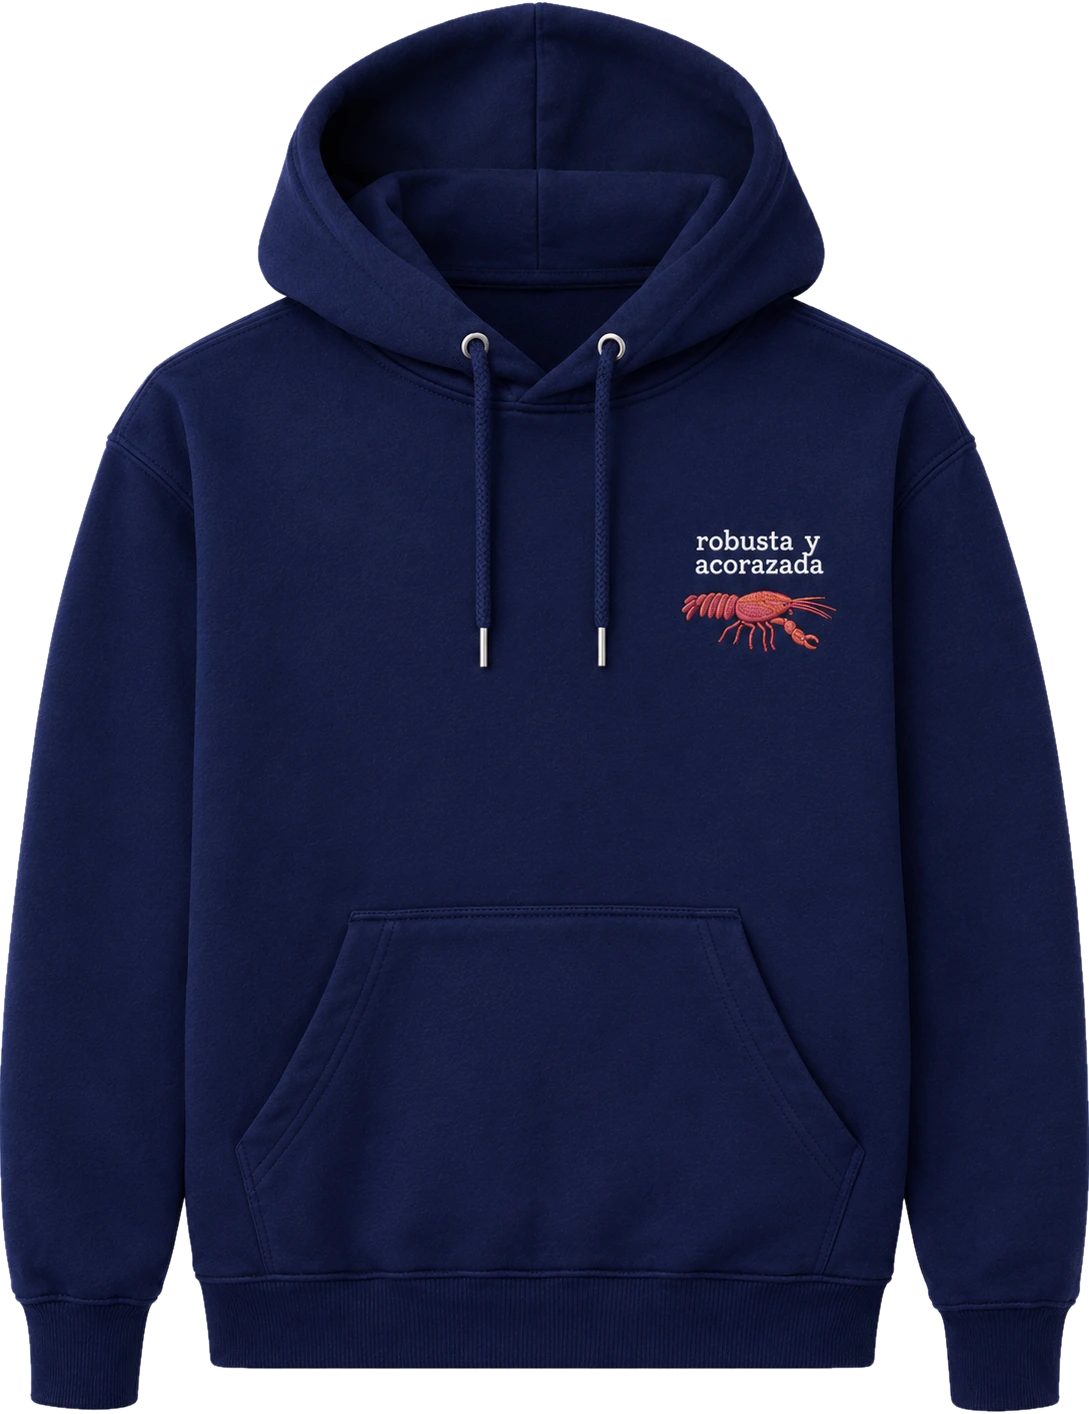
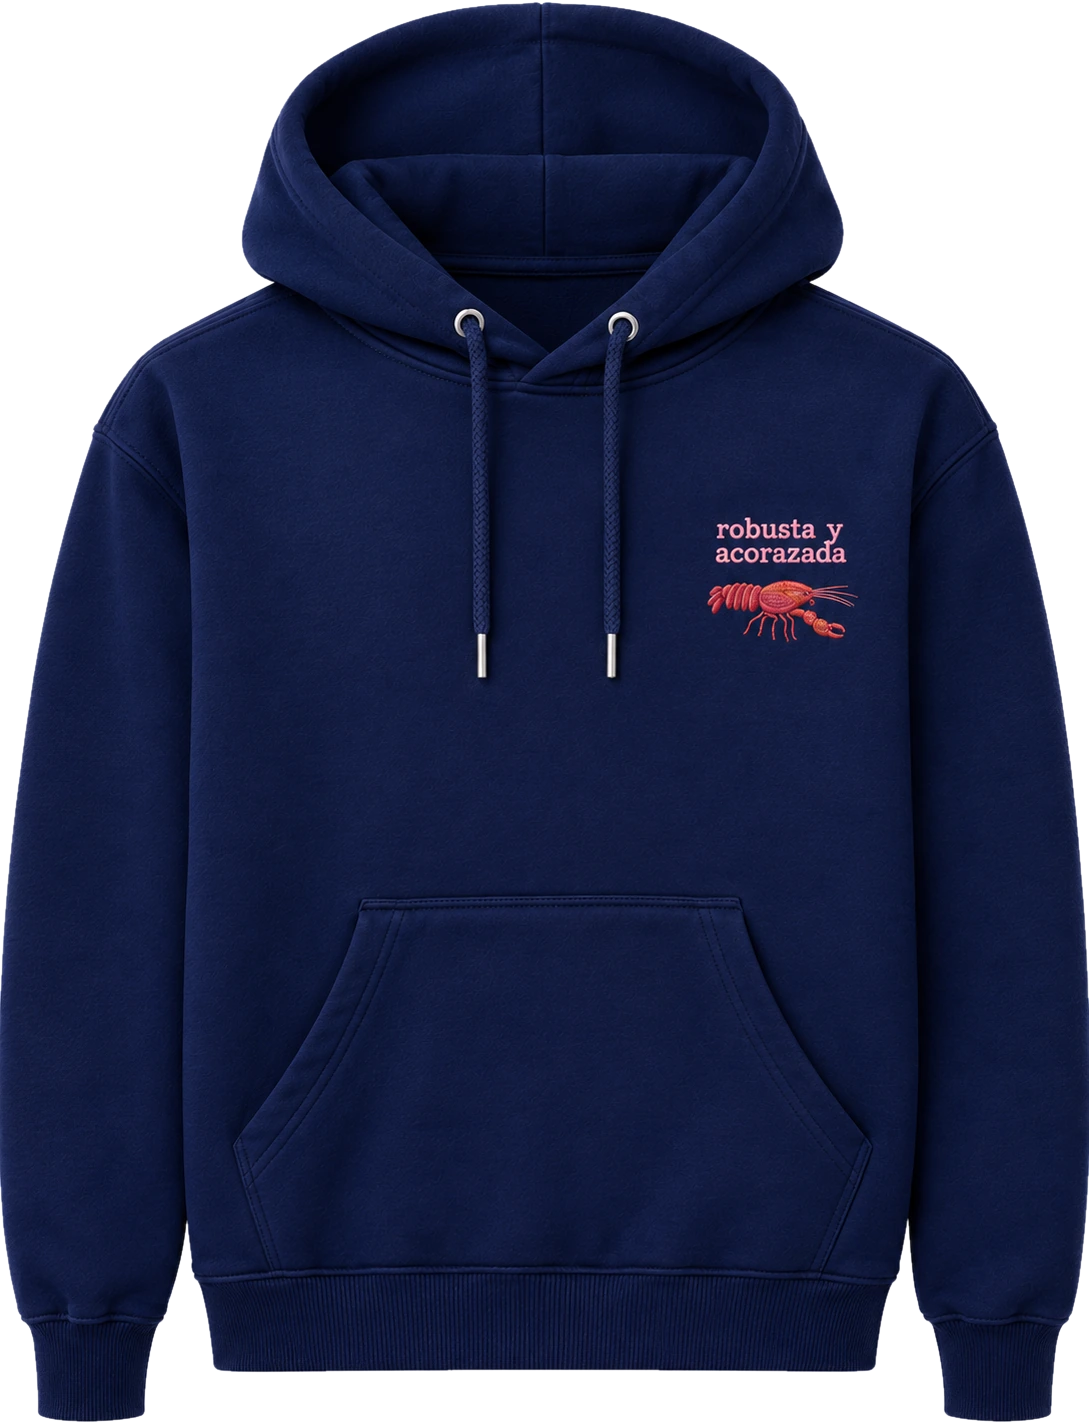
Fondo: nueva versión del buzo de Mamá tenazas
Claude-Session: https://claude.ai/code/session_01Qm5YFXMrmpHggq2K32ktW1

diff --git a/fondo.js b/fondo.js
@@ -80,7 +80,7 @@
           remera: "Remera negra con el pulpo Dumbo en rosa y amarillo. Arriba a la izquierda dice cuerpo encima y abajo a la derecha, devora. Usá los botones o el pellizco para acercarte.",
           taza: "Taza blanca con el interior y el asa rosas. Dice Madre solo una, y abajo está Mamá tenazas, una langosta en rosa y naranja. Usá los botones o el pellizco para acercarte.",
           toallon: "Toallón playero azul con el pulpo Dumbo en rosa y amarillo. Abajo dice cirros que captan. Usá los botones o el pellizco para acercarte.",
-          buzo: "Buzo azul marino con capucha. En el pecho tiene bordada a Mamá tenazas, una langosta roja, y arriba dice robusta y acorazada. Usá los botones o el pellizco para acercarte.",
+          buzo: "Buzo azul marino con capucha. En el pecho tiene bordada a Mamá tenazas, una langosta roja, y arriba, en rosa, dice robusta y acorazada. Usá los botones o el pellizco para acercarte.",
           gorra: "Gorra negra de gabardina lavada con Batatita bordada en violeta. Debajo, también bordado en violeta, dice sobre barro y arena. Usá los botones o el pellizco para acercarte."
         }
       },
@@ -138,7 +138,7 @@
           remera: "Black T-shirt with the dumbo octopus in pink and yellow. Top left it reads cuerpo encima (body on top) and bottom right, devora (devours). Use the buttons or pinch to zoom in.",
           taza: "White mug with a pink inside and handle. It reads Madre solo una (only one mother), and below is Mamá tenazas, a lobster in pink and orange. Use the buttons or pinch to zoom in.",
           toallon: "Blue beach towel with the dumbo octopus in pink and yellow. Below it reads cirros que captan (cirri that capture). Use the buttons or pinch to zoom in.",
-          buzo: "Navy blue hoodie. On the chest it has Mamá tenazas, a red lobster, embroidered, and above it reads robusta y acorazada (sturdy and armoured). Use the buttons or pinch to zoom in.",
+          buzo: "Navy blue hoodie. On the chest it has Mamá tenazas, a red lobster, embroidered, and above it, in pink, reads robusta y acorazada (sturdy and armoured). Use the buttons or pinch to zoom in.",
           gorra: "Washed black cap with Batatita embroidered in purple. Below it, also embroidered in purple, it reads sobre barro y arena (on mud and sand). Use the buttons or pinch to zoom in."
         }
       },
@@ -235,7 +235,7 @@
         {
           id: "buzo", es: "Buzo con capucha", en: "Hoodie",
           kind: "zoom", thumb: "fondo/assets/thumbs/buzo.webp",
-          svg: "fondo/assets/buzo-svg.html", ratio: 1089 / 1414
+          svg: "fondo/assets/buzo-svg.html", ratio: 1089 / 1424
         },
         { id: "postal", es: "Postal", en: "Postcard", kind: "postal", thumb: "fondo/assets/thumbs/postal-mama-tenazas.webp", file: "fondo/assets/postales/postal-mama-tenazas.png" }
       ]

diff --git a/fondo/assets/buzo-svg.html b/fondo/assets/buzo-svg.html
@@ -1,4 +1,4 @@
-<svg class="zoom-svg buzo-svg" viewBox="0 0 1089 1414" preserveAspectRatio="xMidYMid meet" xmlns="http://www.w3.org/2000/svg" aria-hidden="true">
+<svg class="zoom-svg buzo-svg" viewBox="0 0 1089 1424" preserveAspectRatio="xMidYMid meet" xmlns="http://www.w3.org/2000/svg" aria-hidden="true">
 <!-- Buzo con capucha con Mamá tenazas bordada: "robusta y acorazada" -->
-<image href="fondo/assets/buzo.webp" x="0" y="0" width="1089" height="1414" />
+<image href="fondo/assets/buzo.webp" x="0" y="0" width="1089" height="1424" />
 </svg>
